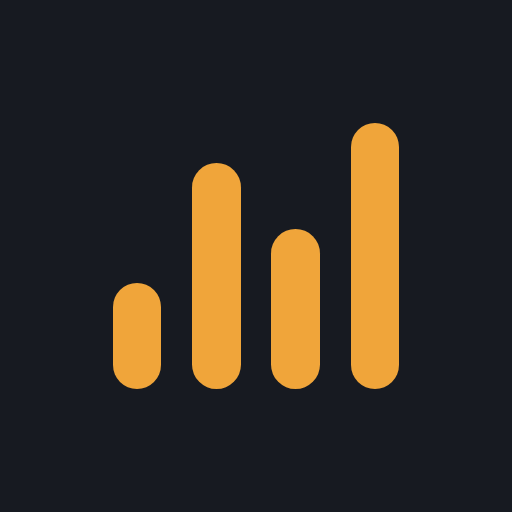
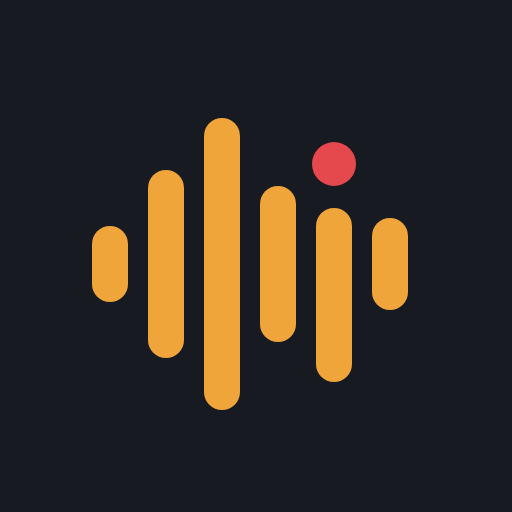
Novo ícone (onda com luz REC) e ecrã de carregamento animado (#2)
O ícone passa a ser a onda sonora em barras com a luz vermelha de gravação
como ponto do i. Há uma versão SVG para o topo da app e o separador do
browser, PNG de 192/512/Apple e uma versão recortável para Android.

Ao abrir, a app mostra o ícone ao centro e 'soundbite' em baixo; a pinta
vermelha salta de letra em letra até pousar no i e o ecrã desaparece.

Claude-Session: https://claude.ai/code/session_01BDohUfxfDw8BMuEQ6zNpm3

Changed region(s): [[0.5, 0.2188, 0.7812, 0.7812], [0.1562, 0.2188, 0.4688, 0.8125], [0.7812, 0.4375, 0.8125, 0.5938]]

diff --git a/splash.js b/splash.js
@@ -1,0 +1,66 @@
+// Ecrã de carregamento: a pinta vermelha entra pela esquerda, salta de letra em letra e pousa no i.
+// Depois o ecrã desaparece. Corre logo no início do <body>, antes da app.
+(function () {
+  var splash = document.getElementById('splash');
+  if (!splash) return;
+  var wm = splash.querySelector('.sp-wm');
+  var dot = wm.querySelector('.dot');
+  var letters = Array.prototype.slice.call(wm.querySelectorAll('.l'));
+  var asc = { d: 1, b: 1, t: 1 };
+  var X_TOP = 0.215, A_TOP = 0.09, I_DOT = 0.095; // em, a partir do topo da palavra
+  var HOP_MS = 300, HOLD_MS = 450, done = false;
+
+  function hide() {
+    if (done) return;
+    done = true;
+    splash.classList.add('out');
+    setTimeout(function () { splash.remove(); }, 500);
+  }
+  setTimeout(hide, 6000); // nunca fica preso
+
+  function pos(el, final) {
+    var fs = parseFloat(getComputedStyle(wm).fontSize), r = fs * 0.125;
+    var cx = el.offsetLeft + el.offsetWidth / 2;
+    var cy = final ? I_DOT * fs : (asc[el.textContent] ? A_TOP : X_TOP) * fs - r;
+    return { x: cx - r, y: cy - r, fs: fs };
+  }
+  function tf(p, sx, sy) { return 'translate(' + p.x.toFixed(1) + 'px,' + p.y.toFixed(1) + 'px) scale(' + (sx || 1) + ',' + (sy || 1) + ')'; }
+
+  function start() {
+    wm.classList.add('ready');
+    var iIdx = letters.findIndex(function (l) { return l.classList.contains('li'); });
+    var path = letters.slice(0, iIdx + 1).map(function (l, k) { return pos(l, k === iIdx); });
+    var end = path[path.length - 1];
+    var reduce = window.matchMedia && matchMedia('(prefers-reduced-motion: reduce)').matches;
+    if (reduce || !dot.animate) {
+      dot.style.transform = tf(end); dot.style.opacity = 1;
+      setTimeout(hide, 700);
+      return;
+    }
+    var fs = path[0].fs, hops = path.length, seg = 1 / hops, frames = [];
+    var from = { x: path[0].x - fs * 0.6, y: -fs * 1.4 };
+    frames.push({ offset: 0, transform: tf(from), opacity: 0, easing: 'ease-in' });
+    frames.push({ offset: seg * 0.15, opacity: 1, transform: tf({ x: from.x + (path[0].x - from.x) * 0.3, y: from.y + fs * 0.2 }), easing: 'ease-in' });
+    var prev = from;
+    path.forEach(function (p, k) {
+      var land = seg * (k + 1), last = k === hops - 1;
+      if (k > 0) frames.push({ offset: seg * k + seg * 0.5, transform: tf({ x: (prev.x + p.x) / 2, y: Math.min(prev.y, p.y) - fs * 0.5 }), opacity: 1, easing: 'ease-in' });
+      frames.push({ offset: land - (last ? seg * 0.25 : 0.0001), transform: tf(p, 1.3, 0.7), opacity: 1, easing: 'ease-out' });
+      if (last) frames.push({ offset: 1, transform: tf(p), opacity: 1 });
+      else frames.push({ offset: land, transform: tf(p, 1.15, 0.85), opacity: 1, easing: 'ease-out' });
+      prev = p;
+    });
+    var anim = dot.animate(frames, { duration: hops * HOP_MS, fill: 'forwards' });
+    anim.onfinish = function () { setTimeout(hide, HOLD_MS); };
+  }
+
+  // Espera pela letra certa (no máximo 1 s) para as posições baterem certo.
+  var started = false;
+  function go() { if (!started) { started = true; start(); } }
+  if (document.fonts && document.fonts.load) {
+    document.fonts.load('800 1.6rem "Bricolage Grotesque"', 'soundbıte').then(go, go);
+    setTimeout(go, 1000);
+  } else {
+    go();
+  }
+})();

diff --git a/styles.css b/styles.css
@@ -58,9 +58,7 @@ code { font-size: .9em; background: var(--surface-2); padding: 1px 5px; border-r
 .brand > div { min-width: 0; }
 .brand h1 { margin: 0; font: 800 1.35rem/1.1 var(--f-display); letter-spacing: -.01em; white-space: nowrap; overflow: hidden; text-overflow: ellipsis; }
 .brand p { margin: 2px 0 0; font-size: .82rem; }
-.logo { width: 36px; height: 36px; border-radius: 10px; background: var(--ink); display: flex; align-items: flex-end; justify-content: center; gap: 3px; padding: 8px 7px; flex: none; }
-.logo i { display: block; width: 4px; border-radius: 2px; background: var(--accent); }
-.logo i:nth-child(1) { height: 40%; } .logo i:nth-child(2) { height: 85%; } .logo i:nth-child(3) { height: 60%; } .logo i:nth-child(4) { height: 100%; }
+.logo { width: 36px; height: 36px; border-radius: 10px; flex: none; display: block; }
 .actions { display: flex; align-items: center; gap: 6px; flex: none; }
 
 .icon-btn { width: 40px; height: 40px; display: inline-grid; place-items: center; border: 0; border-radius: 10px; background: transparent; color: var(--ink); }
@@ -166,3 +164,12 @@ code { font-size: .9em; background: var(--surface-2); padding: 1px 5px; border-r
 .toast { position: fixed; left: 50%; bottom: calc(100px + env(safe-area-inset-bottom, 0px)); transform: translateX(-50%); background: var(--ink); color: var(--bg); padding: 10px 16px; border-radius: 10px; font-size: .9rem; z-index: 20; max-width: calc(100% - 32px); }
 
 @media (prefers-reduced-motion: reduce) { * { animation: none !important; transition: none !important; } }
+
+/* Ecrã de carregamento (cores fixas do ícone, iguais no tema claro e escuro) */
+.splash { position: fixed; inset: 0; z-index: 100; background: #171A21; transition: opacity .45s ease; }
+.splash.out { opacity: 0; pointer-events: none; }
+.splash .sp-icon { position: absolute; left: 50%; top: 44%; width: 84px; height: 84px; border-radius: 22.5%; transform: translate(-50%, -50%); }
+.splash .sp-wm { position: absolute; left: 50%; bottom: calc(11% + env(safe-area-inset-bottom, 0px)); transform: translateX(-50%); font: 800 1.6rem/1 var(--f-display); letter-spacing: -.03em; color: #F0A53A; white-space: nowrap; display: inline-block; opacity: 0; transition: opacity .3s ease; }
+.splash .sp-wm.ready { opacity: 1; }
+.splash .sp-wm .l { display: inline-block; }
+.splash .dot { position: absolute; left: 0; top: 0; width: .25em; height: .25em; border-radius: 50%; background: #E5484D; transform-origin: 50% 100%; opacity: 0; }

diff --git a/index.html b/index.html
@@ -7,7 +7,8 @@
 <meta name="claude:viewport-fit-sides" content="cover">
 <meta name="theme-color" content="#F2F3F6">
 <link rel="manifest" href="manifest.webmanifest">
-<link rel="icon" href="icons/icon-192.png">
+<link rel="icon" href="icons/icon.svg" type="image/svg+xml">
+<link rel="icon" href="icons/icon-192.png" sizes="192x192">
 <link rel="apple-touch-icon" href="icons/apple-touch-icon.png">
 <meta name="apple-mobile-web-app-capable" content="yes">
 <meta name="apple-mobile-web-app-title" content="Soundbite">
@@ -17,6 +18,12 @@
 <link rel="stylesheet" href="styles.css">
 </head>
 <body>
+<!-- Ecrã de carregamento: o ícone ao centro e o nome em baixo; a pinta do i entra a saltar pelas letras. -->
+<div id="splash" class="splash" aria-hidden="true">
+  <img class="sp-icon" src="icons/icon.svg" alt="" width="84" height="84">
+  <span class="sp-wm"><span class="l">s</span><span class="l">o</span><span class="l">u</span><span class="l">n</span><span class="l">d</span><span class="l">b</span><span class="l li">ı</span><span class="l">t</span><span class="l">e</span><span class="dot"></span></span>
+</div>
+<script src="splash.js"></script>
 <svg width="0" height="0" style="position:absolute" aria-hidden="true">
   <symbol id="i-play" viewBox="0 0 24 24"><path d="M8 5.5v13a1 1 0 0 0 1.5.86l10.5-6.5a1 1 0 0 0 0-1.72L9.5 4.64A1 1 0 0 0 8 5.5Z" fill="currentColor"/></symbol>
   <symbol id="i-pause" viewBox="0 0 24 24"><rect x="6" y="5" width="4" height="14" rx="1" fill="currentColor"/><rect x="14" y="5" width="4" height="14" rx="1" fill="currentColor"/></symbol>
@@ -33,7 +40,7 @@
 <header class="top">
   <div class="top-inner">
     <div class="brand">
-      <span class="logo" aria-hidden="true"><i></i><i></i><i></i><i></i></span>
+      <img class="logo" src="icons/icon.svg" alt="" width="36" height="36">
       <div>
         <h1 id="band-name">Soundbite</h1>
         <p id="summary" class="muted">A carregar…</p>

diff --git a/sw.js b/sw.js
@@ -1,8 +1,9 @@
 // Guarda a "casca" da app para abrir depressa e funcionar como app instalada.
 // As gravações não ficam em cache: vêm sempre do Google Drive.
-const CACHE = 'soundbite-v5';
+const CACHE = 'soundbite-v6';
 const SHELL = ['./', 'index.html', 'styles.css', 'app.js', 'config.js', 'encoder-worker.js',
-  'vendor/lame.min.js', 'manifest.webmanifest', 'icons/icon-192.png', 'icons/icon-512.png'];
+  'vendor/lame.min.js', 'manifest.webmanifest', 'splash.js', 'icons/icon.svg',
+  'icons/icon-192.png', 'icons/icon-512.png', 'icons/icon-maskable-512.png', 'icons/apple-touch-icon.png'];
 
 self.addEventListener('install', (e) => {
   // cache: 'reload' evita copiar ficheiros antigos da cache do browser.
